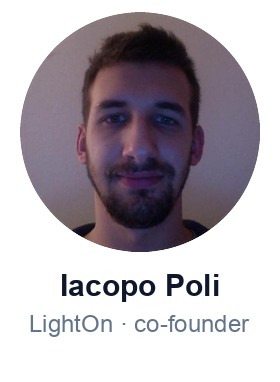
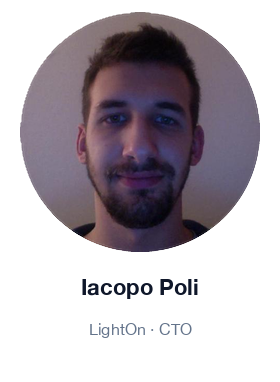
readme: fix Iacopo's title (CTO, not co-founder) + add Amélie Chatelain
- web/img/people/iacopo-poli.png: regenerated with "LightOn · CTO" subtitle.
  The previous version was baked with "LightOn · co-founder", which isn't
  his role — same circular portrait, only the role line changes.
- web/img/people/amelie-chatelain.png: new card for Amélie (already a VIP
  in prod DB as `amelie-chatelain`) — "LightOn · search & retrieval", avatar
  pulled from her GitHub.
- README.md: swap Bo Wang (at Perplexity, didn't fit the LightOn row) for
  Amélie in row 10, keeping the five LightOn people grouped together:
  Iacopo · Antoine · Manuel · Tony · Amélie, then Arthur Mensch.

Also adds scripts/make_person_card.py — a reusable PIL generator that
renders 280×382 RGBA card PNGs matching the template (transparent BG,
circular avatar, slate-900 name, slate-500 "Affiliation · Role" subtitle).
Helvetica Neue Bold / Regular so future cards drop in without visible drift.

diff --git a/scripts/make_person_card.py b/scripts/make_person_card.py
@@ -1,0 +1,188 @@
+"""
+Render a 280x382 personality "card" PNG matching the existing template in
+`web/img/people/`: transparent background, circular avatar at the top, bold
+name in slate-900, gray subtitle in slate-500.
+
+Template parameters were recovered by sampling the existing iacopo-poli.png
+(see commit history). Anything not specified here is intentionally fixed so
+new cards drop in next to the existing 60+ without visible drift.
+
+Usage:
+    uv run scripts/make_person_card.py --slug iacopo-poli \
+        --name "Iacopo Poli" --role "LightOn · CTO" \
+        --avatar-from-existing web/img/people/iacopo-poli.png
+
+    uv run scripts/make_person_card.py --slug amelie-chatelain \
+        --name "Amélie Chatelain" --role "LightOn · search & retrieval" \
+        --avatar-url https://avatars.githubusercontent.com/u/58592892?v=4
+
+The output is always `web/img/people/<slug>.png` (280x382 RGBA).
+"""
+
+from __future__ import annotations
+
+import argparse
+import io
+import sys
+import urllib.request
+from pathlib import Path
+
+from PIL import Image, ImageDraw, ImageFont
+
+CANVAS_W, CANVAS_H = 280, 382
+
+# Avatar geometry: a 240 px circle centered horizontally, top edge at y=12.
+AVATAR_CX, AVATAR_CY = 140, 132
+AVATAR_RADIUS = 120
+
+# Text colours sampled from the existing cards.
+COLOR_NAME = (15, 23, 42, 255)  # slate-900
+COLOR_SUBTITLE = (100, 116, 139, 255)  # slate-500
+
+# Baselines tuned to land on the same rows as the existing PNGs.
+NAME_BASELINE_Y = 295
+SUBTITLE_BASELINE_Y = 335
+
+
+def _load_font(
+    candidates: list[tuple[str, int, int]],
+) -> ImageFont.FreeTypeFont:
+    """Try a list of (path, size, index) candidates in order; return the first that loads.
+
+    `index` selects the face inside a .ttc collection (Helvetica.ttc / HelveticaNeue.ttc
+    bundle the Regular / Bold / Italic / … variants at different indices). 0 for .ttf.
+    """
+    for path, size, index in candidates:
+        try:
+            return ImageFont.truetype(path, size, index=index)
+        except (OSError, IndexError):
+            continue
+    raise RuntimeError(f"No usable font found from {candidates!r}")
+
+
+def name_font() -> ImageFont.FreeTypeFont:
+    return _load_font(
+        [
+            ("/System/Library/Fonts/HelveticaNeue.ttc", 22, 1),  # Helvetica Neue Bold
+            ("/System/Library/Fonts/Helvetica.ttc", 22, 1),  # Helvetica Bold
+            ("/System/Library/Fonts/Supplemental/Arial Bold.ttf", 22, 0),
+            ("/usr/share/fonts/truetype/dejavu/DejaVuSans-Bold.ttf", 22, 0),
+        ]
+    )
+
+
+def subtitle_font() -> ImageFont.FreeTypeFont:
+    return _load_font(
+        [
+            ("/System/Library/Fonts/HelveticaNeue.ttc", 16, 0),  # Helvetica Neue Regular
+            ("/System/Library/Fonts/Helvetica.ttc", 16, 0),  # Helvetica Regular
+            ("/System/Library/Fonts/Supplemental/Arial.ttf", 16, 0),
+            ("/usr/share/fonts/truetype/dejavu/DejaVuSans.ttf", 16, 0),
+        ]
+    )
+
+
+def _fetch_url(url: str) -> bytes:
+    """Plain GET with a UA — GitHub returns 403 for the default Python UA."""
+    req = urllib.request.Request(url, headers={"User-Agent": "knowledge-card-generator/1.0"})
+    with urllib.request.urlopen(req, timeout=15) as r:
+        return r.read()
+
+
+def load_avatar(args: argparse.Namespace) -> Image.Image:
+    """
+    Return a square RGBA image suitable for circular masking. When pulling
+    from an existing card we just extract the previously-masked circular
+    region (so re-running on iacopo-poli.png preserves the same photo).
+    """
+    if args.avatar_url:
+        data = _fetch_url(args.avatar_url)
+        img = Image.open(io.BytesIO(data)).convert("RGBA")
+        # Crop to centered square then resize to the avatar diameter.
+        w, h = img.size
+        side = min(w, h)
+        left = (w - side) // 2
+        top = (h - side) // 2
+        img = img.crop((left, top, left + side, top + side))
+        return img.resize((2 * AVATAR_RADIUS, 2 * AVATAR_RADIUS), Image.LANCZOS)
+
+    if args.avatar_from_existing:
+        src = Image.open(args.avatar_from_existing).convert("RGBA")
+        # The template puts the circle at (AVATAR_CX, AVATAR_CY) with
+        # AVATAR_RADIUS — re-crop that exact region.
+        bbox = (
+            AVATAR_CX - AVATAR_RADIUS,
+            AVATAR_CY - AVATAR_RADIUS,
+            AVATAR_CX + AVATAR_RADIUS,
+            AVATAR_CY + AVATAR_RADIUS,
+        )
+        return src.crop(bbox)
+
+    if args.avatar_file:
+        img = Image.open(args.avatar_file).convert("RGBA")
+        w, h = img.size
+        side = min(w, h)
+        left = (w - side) // 2
+        top = (h - side) // 2
+        img = img.crop((left, top, left + side, top + side))
+        return img.resize((2 * AVATAR_RADIUS, 2 * AVATAR_RADIUS), Image.LANCZOS)
+
+    raise SystemExit("Need one of --avatar-url / --avatar-from-existing / --avatar-file")
+
+
+def render(args: argparse.Namespace) -> Image.Image:
+    canvas = Image.new("RGBA", (CANVAS_W, CANVAS_H), (255, 255, 255, 0))
+
+    # --- avatar (circular mask) ---
+    avatar = load_avatar(args)
+    mask = Image.new("L", avatar.size, 0)
+    ImageDraw.Draw(mask).ellipse((0, 0, avatar.size[0], avatar.size[1]), fill=255)
+    # Antialias the mask edge so the circle doesn't look stepped.
+    mask_aa = mask.resize((avatar.size[0] * 2, avatar.size[1] * 2), Image.LANCZOS).resize(avatar.size, Image.LANCZOS)
+    canvas.paste(avatar, (AVATAR_CX - AVATAR_RADIUS, AVATAR_CY - AVATAR_RADIUS), mask_aa)
+
+    # --- text ---
+    draw = ImageDraw.Draw(canvas)
+    nf = name_font()
+    sf = subtitle_font()
+
+    def draw_centered(y_baseline: int, text: str, font: ImageFont.FreeTypeFont, color):
+        # Use anchor="ms" so y is the baseline and x is the horizontal center.
+        draw.text((CANVAS_W // 2, y_baseline), text, font=font, fill=color, anchor="ms")
+
+    draw_centered(NAME_BASELINE_Y, args.name, nf, COLOR_NAME)
+    draw_centered(SUBTITLE_BASELINE_Y, args.role, sf, COLOR_SUBTITLE)
+
+    return canvas
+
+
+def main() -> int:
+    p = argparse.ArgumentParser()
+    p.add_argument("--slug", required=True, help="Output filename stem (no .png)")
+    p.add_argument("--name", required=True, help='Bold name line, e.g. "Iacopo Poli"')
+    p.add_argument("--role", required=True, help='Subtitle, e.g. "LightOn · CTO"')
+    p.add_argument("--avatar-url", help="Avatar URL to download (square crop applied)")
+    p.add_argument(
+        "--avatar-from-existing",
+        help="Reuse the circular avatar already baked into another card PNG",
+    )
+    p.add_argument("--avatar-file", help="Local image file (square crop applied)")
+    p.add_argument(
+        "--out-dir",
+        default="web/img/people",
+        help="Output directory (default: web/img/people)",
+    )
+    args = p.parse_args()
+
+    out_dir = Path(args.out_dir)
+    out_dir.mkdir(parents=True, exist_ok=True)
+    out_path = out_dir / f"{args.slug}.png"
+
+    img = render(args)
+    img.save(out_path, "PNG")
+    print(f"wrote {out_path} ({out_path.stat().st_size:,} bytes)")
+    return 0
+
+
+if __name__ == "__main__":
+    sys.exit(main())

diff --git a/README.md b/README.md
@@ -2,11 +2,9 @@
   <a href="https://knowledge-web.org"><img src="web/img/logo.svg" alt="Knowledge" width="340"></a>
 </p>
 
-<p align="center"><em>A biased Feed.</em></p>
-
 <p align="center">An opinionated reading list of <strong>450+ people</strong> who shape AI, science, and software today. A place to learn.</p>
 
-<p align="center"><em>No ads, no algorithm, no infinite scroll. Just what they read.</em></p>
+<p align="center"><em>No ads, no algorithm, just what they read.</em></p>
 
 <br>
 
@@ -127,8 +125,8 @@ Tap the heart on any card and the doc lands in your library, indexed and searcha
 <a href="https://knowledge-web.org/antoine-chaffin" title="Antoine Chaffin"><img src="web/img/people/antoine-chaffin.png" alt="Antoine Chaffin" width="120"></a>
 <a href="https://knowledge-web.org/manuel-faysse" title="Manuel Faysse"><img src="web/img/people/manuel-faysse.png" alt="Manuel Faysse" width="120"></a>
 <a href="https://knowledge-web.org/tony-wu" title="Tony Wu"><img src="web/img/people/tony-wu.png" alt="Tony Wu" width="120"></a>
+<a href="https://knowledge-web.org/amelie-chatelain" title="Amélie Chatelain"><img src="web/img/people/amelie-chatelain.png" alt="Amélie Chatelain" width="120"></a>
 <a href="https://knowledge-web.org/arthur-mensch" title="Arthur Mensch"><img src="web/img/people/arthur-mensch.png" alt="Arthur Mensch" width="120"></a>
-<a href="https://knowledge-web.org/bo-wang" title="Bo Wang"><img src="web/img/people/bo-wang.png" alt="Bo Wang" width="120"></a>
 </p>
 
 <p align="center">…or wander through <a href="https://knowledge-web.org">all 450+ libraries</a>.</p>
